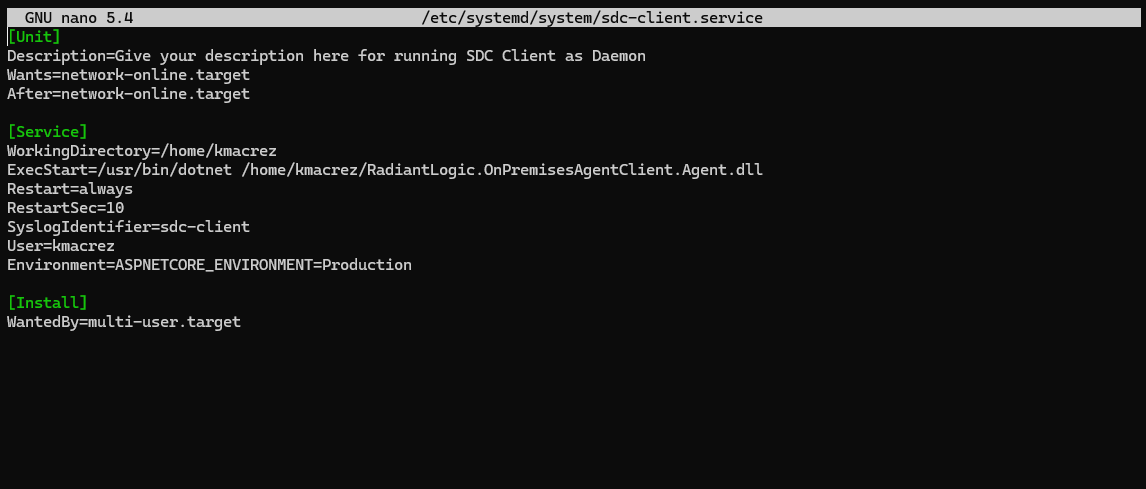
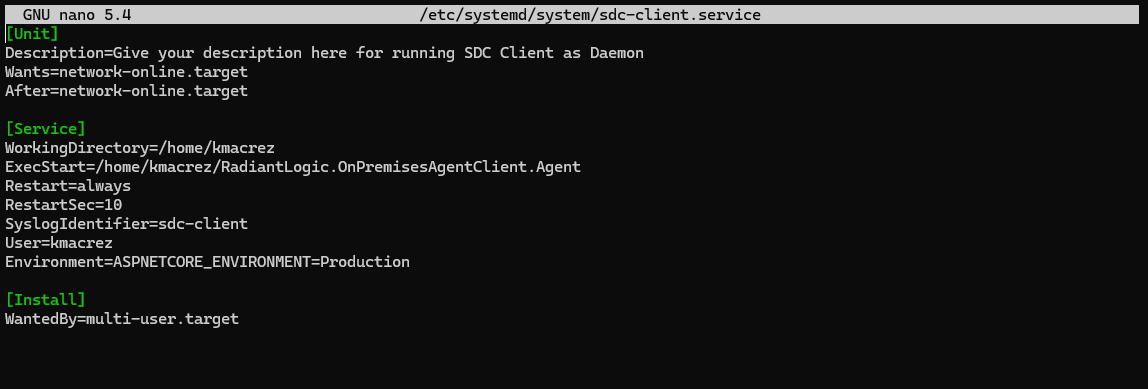
AG-534 - Updated doc with PR comments

Changed region(s): [[0.0, 0.0, 1.0, 0.7095], [0.0, 0.7404, 0.2138, 0.8329]]

diff --git a/documentation/environment-operations-center-guide/secure-data-connectors/deploy-sdc-client.md b/documentation/environment-operations-center-guide/secure-data-connectors/deploy-sdc-client.md
@@ -86,21 +86,13 @@ Open the *appsettings.Production.json* file using an editor and locate the `"Age
 
 If the client to be run on a network where proxy is setup, see the *Proxy Configuration for Linux* section in [run the secure data connector client under proxy network setup](deploy-sdc-client-in-proxy.md) guide.
 
-To deploy the sdc client on Linux, the server need to have the .NET core runtime. Depending on the Linux distribution, the installation steps can be found on the [official Microsoft website](https://learn.microsoft.com/en-us/dotnet/core/install/linux). To validate .NET is installed successfully, open a command line and run the dotnet command:
-
-`dotnet`
-
-The output result from the command line would confirm .NET is installed correctly.
-
-![image description](images/.net-installed.png)
-
 Open the command line and navigate to the directory that contains the unzipped *sdc-linux.zip* files. From the directory, run the following command to launch the secure data connector client:
 
-`dotnet RadiantLogic.OnPremisesAgentClient.Agent.dll`
+`./RadiantLogic.OnPremisesAgentClient.Agent`
 
 A notification will display in the command line that confirms a connection has been established between the agent and server.
 
-![image description](images/linux-dotnet-run-client.png)
+![image description](images/linux-run-client.png)
 
 Once the client is running, you can can setup a connection with the on-premise backend. For details on setting up a connection, see the [server backend](../../sys-admin-guide/server-backend.md) guide.
 
@@ -213,10 +205,10 @@ You can use standard systemd commands to manage your application daemon:
 case "$1" in
   start)
     cd /path/to/binary/sdc-client
-    sudo -u your-username dotnet RadiantLogic.OnPremisesAgentClient.Agent.dll &
+    sudo -u your-username RadiantLogic.OnPremisesAgentClient.Agent &
     ;;
   stop)
-    pkill -f "dotnet RadiantLogic.OnPremisesAgentClient.Agent.dll"
+    pkill -f "RadiantLogic.OnPremisesAgentClient.Agent"
     ;;
   restart)
     $0 stop
